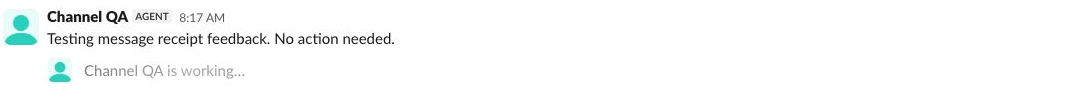
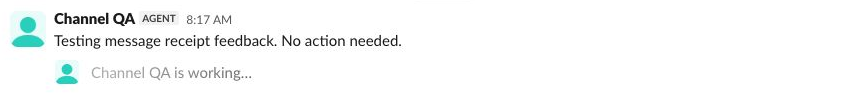
fix(channels): finish receipt cleanup despite repeated cancellation
An overlapping timeout and handoff could cancel Slack status cleanup twice, leaving the working indicator behind. Keep cleanup bounded and shield it to completion; let Slack Stop clear receipt activity before a worker exists.

Changed region(s): [[0.0, 0.1099, 0.4682, 0.5275], [0.0312, 0.6374, 0.2809, 0.9231]]

diff --git a/tests/test_channel_resilience.py b/tests/test_channel_resilience.py
@@ -248,6 +248,47 @@ class ResilienceTests(unittest.IsolatedAsyncioTestCase):
         self.assertFalse(self.transport.typing)
         self.assertFalse(self.transport.receipt_events)
 
+    async def test_second_cancellation_cannot_interrupt_slack_cleanup(self):
+        started, clearing = asyncio.Event(), asyncio.Event()
+        release, cleared = asyncio.Event(), asyncio.Event()
+
+        async def uncertain(provider, method, params):
+            if params["status"] == "processing":
+                started.set()
+                await asyncio.Future()
+            if params["status"] == "active":
+                clearing.set()
+                await release.wait()
+                cleared.set()
+            return {}
+
+        self.transport.request = uncertain
+        event = self.event("slack")
+        self.transport.accept("update", event)
+        await asyncio.wait_for(started.wait(), 1)
+        self.transport.receipt_jobs["receipt:update"].cancel()
+        await asyncio.wait_for(clearing.wait(), 1)
+        stop = asyncio.create_task(self.transport.stop_receipt(event))
+        await asyncio.sleep(0)
+        release.set()
+        await asyncio.wait_for(stop, 1)
+        self.assertTrue(cleared.is_set())
+        self.assertIsNone(self.state.setting('slack_status:["123", "17"]'))
+        self.assertFalse(self.transport.typing)
+        self.assertFalse(self.transport.receipt_events)
+
+    async def test_slack_stop_clears_receipt_before_worker_exists(self):
+        event = self.event("slack")
+        self.transport.accept("update", event)
+        await self.receipts()
+        service = Service.__new__(Service)
+        service.state, service.transports, service.workers = self.state, self.transport, {}
+        await service.stop_task("slack", json.dumps(["123", "17"]))
+        self.assertEqual(self.transport.request.await_args.args[2]["status"], "active")
+        self.assertFalse(self.transport.receipt_events)
+        self.assertFalse(self.transport.typing)
+        self.assertIsNone(self.state.setting('slack_status:["123", "17"]'))
+
     async def test_quiet_preference_is_durable_and_conversation_scoped(self):
         event = self.event()
         self.transport.accept("update", event)

diff --git a/hermes_runtime/channel_agent/transports.py b/hermes_runtime/channel_agent/transports.py
@@ -468,19 +468,37 @@ class Transports:
         clear_methods = [(method, clear)]
         self.state.set(scope, task_id)
 
+        async def clear_status():
+            try:
+                for clear_method, clear_status in clear_methods:
+                    if self.state.setting(scope) != task_id:
+                        break
+                    try:
+                        await asyncio.wait_for(
+                            self.request(
+                                "slack", clear_method,
+                                {**params, "status": clear_status},
+                            ), 5
+                        )
+                    except Exception:
+                        pass
+            finally:
+                if self.state.setting(scope) == task_id:
+                    self.state.set(scope, None)
+
         async def lease():
             try:
                 await asyncio.sleep(seconds)
             finally:
                 if self.state.setting(scope) == task_id:
-                    for clear_method, clear_status in clear_methods:
+                    cleanup = asyncio.create_task(clear_status())
+                    while not cleanup.done():
                         try:
-                            await asyncio.wait_for(
-                                self.request("slack", clear_method, {**params, "status": clear_status}), 5
-                            )
-                        except Exception:
-                            pass
-                    self.state.set(scope, None)
+                            await asyncio.shield(cleanup)
+                        except asyncio.CancelledError:
+                            # A second cancellation must not cancel bounded
+                            # cleanup or leave an ownerless working indicator.
+                            continue
 
         # Own cleanup before the request: a timed-out status write may still
         # have reached Slack. Never leave an uncertain processing status forever.

diff --git a/hermes_runtime/channel_agent/service.py b/hermes_runtime/channel_agent/service.py
@@ -477,6 +477,10 @@ class Service:
                 self.workers[task_id].cancel()
         elif provider == "slack":
             task_id = self.state.setting("slack_status:" + reference)
+            receipt = self.transports.receipt_events.get(task_id)
+            if receipt:
+                await self.transports.stop_receipt(receipt)
+                return
             if task_id in self.workers:
                 self.workers[task_id].cancel()
                 # Stop is a transport lifecycle event, not an authored reply.

diff --git a/docs/verification/receipt-feedback/README.md b/docs/verification/receipt-feedback/README.md
@@ -9,9 +9,9 @@ A local accepted-event simulation used the changed runtime and response skill,
 with real provider credentials kept in memory. No model or worker was started.
 Existing receiver ownership and deployed Computers were not changed.
 
-- Telegram accepted `sendChatAction` 0.155 seconds after local ingest. Telegram
+- Telegram accepted `sendChatAction` 0.157 seconds after local ingest. Telegram
   Desktop visibly showed typing. Saving the quiet preference stopped renewal.
-- Slack accepted `agents.sessions.setStatus` 0.249 seconds after local ingest.
+- Slack accepted `agents.sessions.setStatus` 0.152 seconds after local ingest.
   Slack Web visibly showed the working indicator. Cleanup returned the agent to
   `active`. The test used a harmless test message as the thread anchor.
 
@@ -35,5 +35,5 @@ python -m compileall -q hermes_runtime scripts
 
 Focused cases cover queued voice messages, duplicates, unauthorized Telegram
 updates, stalled provider feedback, Slack thread scoping and fallback, cancelled
-status writes, local quiet preferences, and router preference restrictions.
+status writes, repeated cancellation during cleanup, Slack Stop during receipt, local quiet preferences, and router preference restrictions.
 The resilience suite also passes on Linux with Python 3.11.

diff --git a/README.md b/README.md
@@ -968,6 +968,9 @@ they never hide a live worker's approvals or mark connected intake as stopped.
 The bounded `receiver.log` contains diagnostic codes, never messages or provider
 exceptions.
 
+The native receiver shows bounded Telegram typing or Slack working status after
+durable receipt, before model work. The response skill packages the default;
+explicit quiet preferences are stored locally per sender and conversation.
 Compatible routing skills can request a bounded Telegram/Slack activity lease
 before selecting a task. They cannot send, edit, or stream replies. Response
 skills choose typing, drafts/streams, and silence; the runtime does not turn CLI
